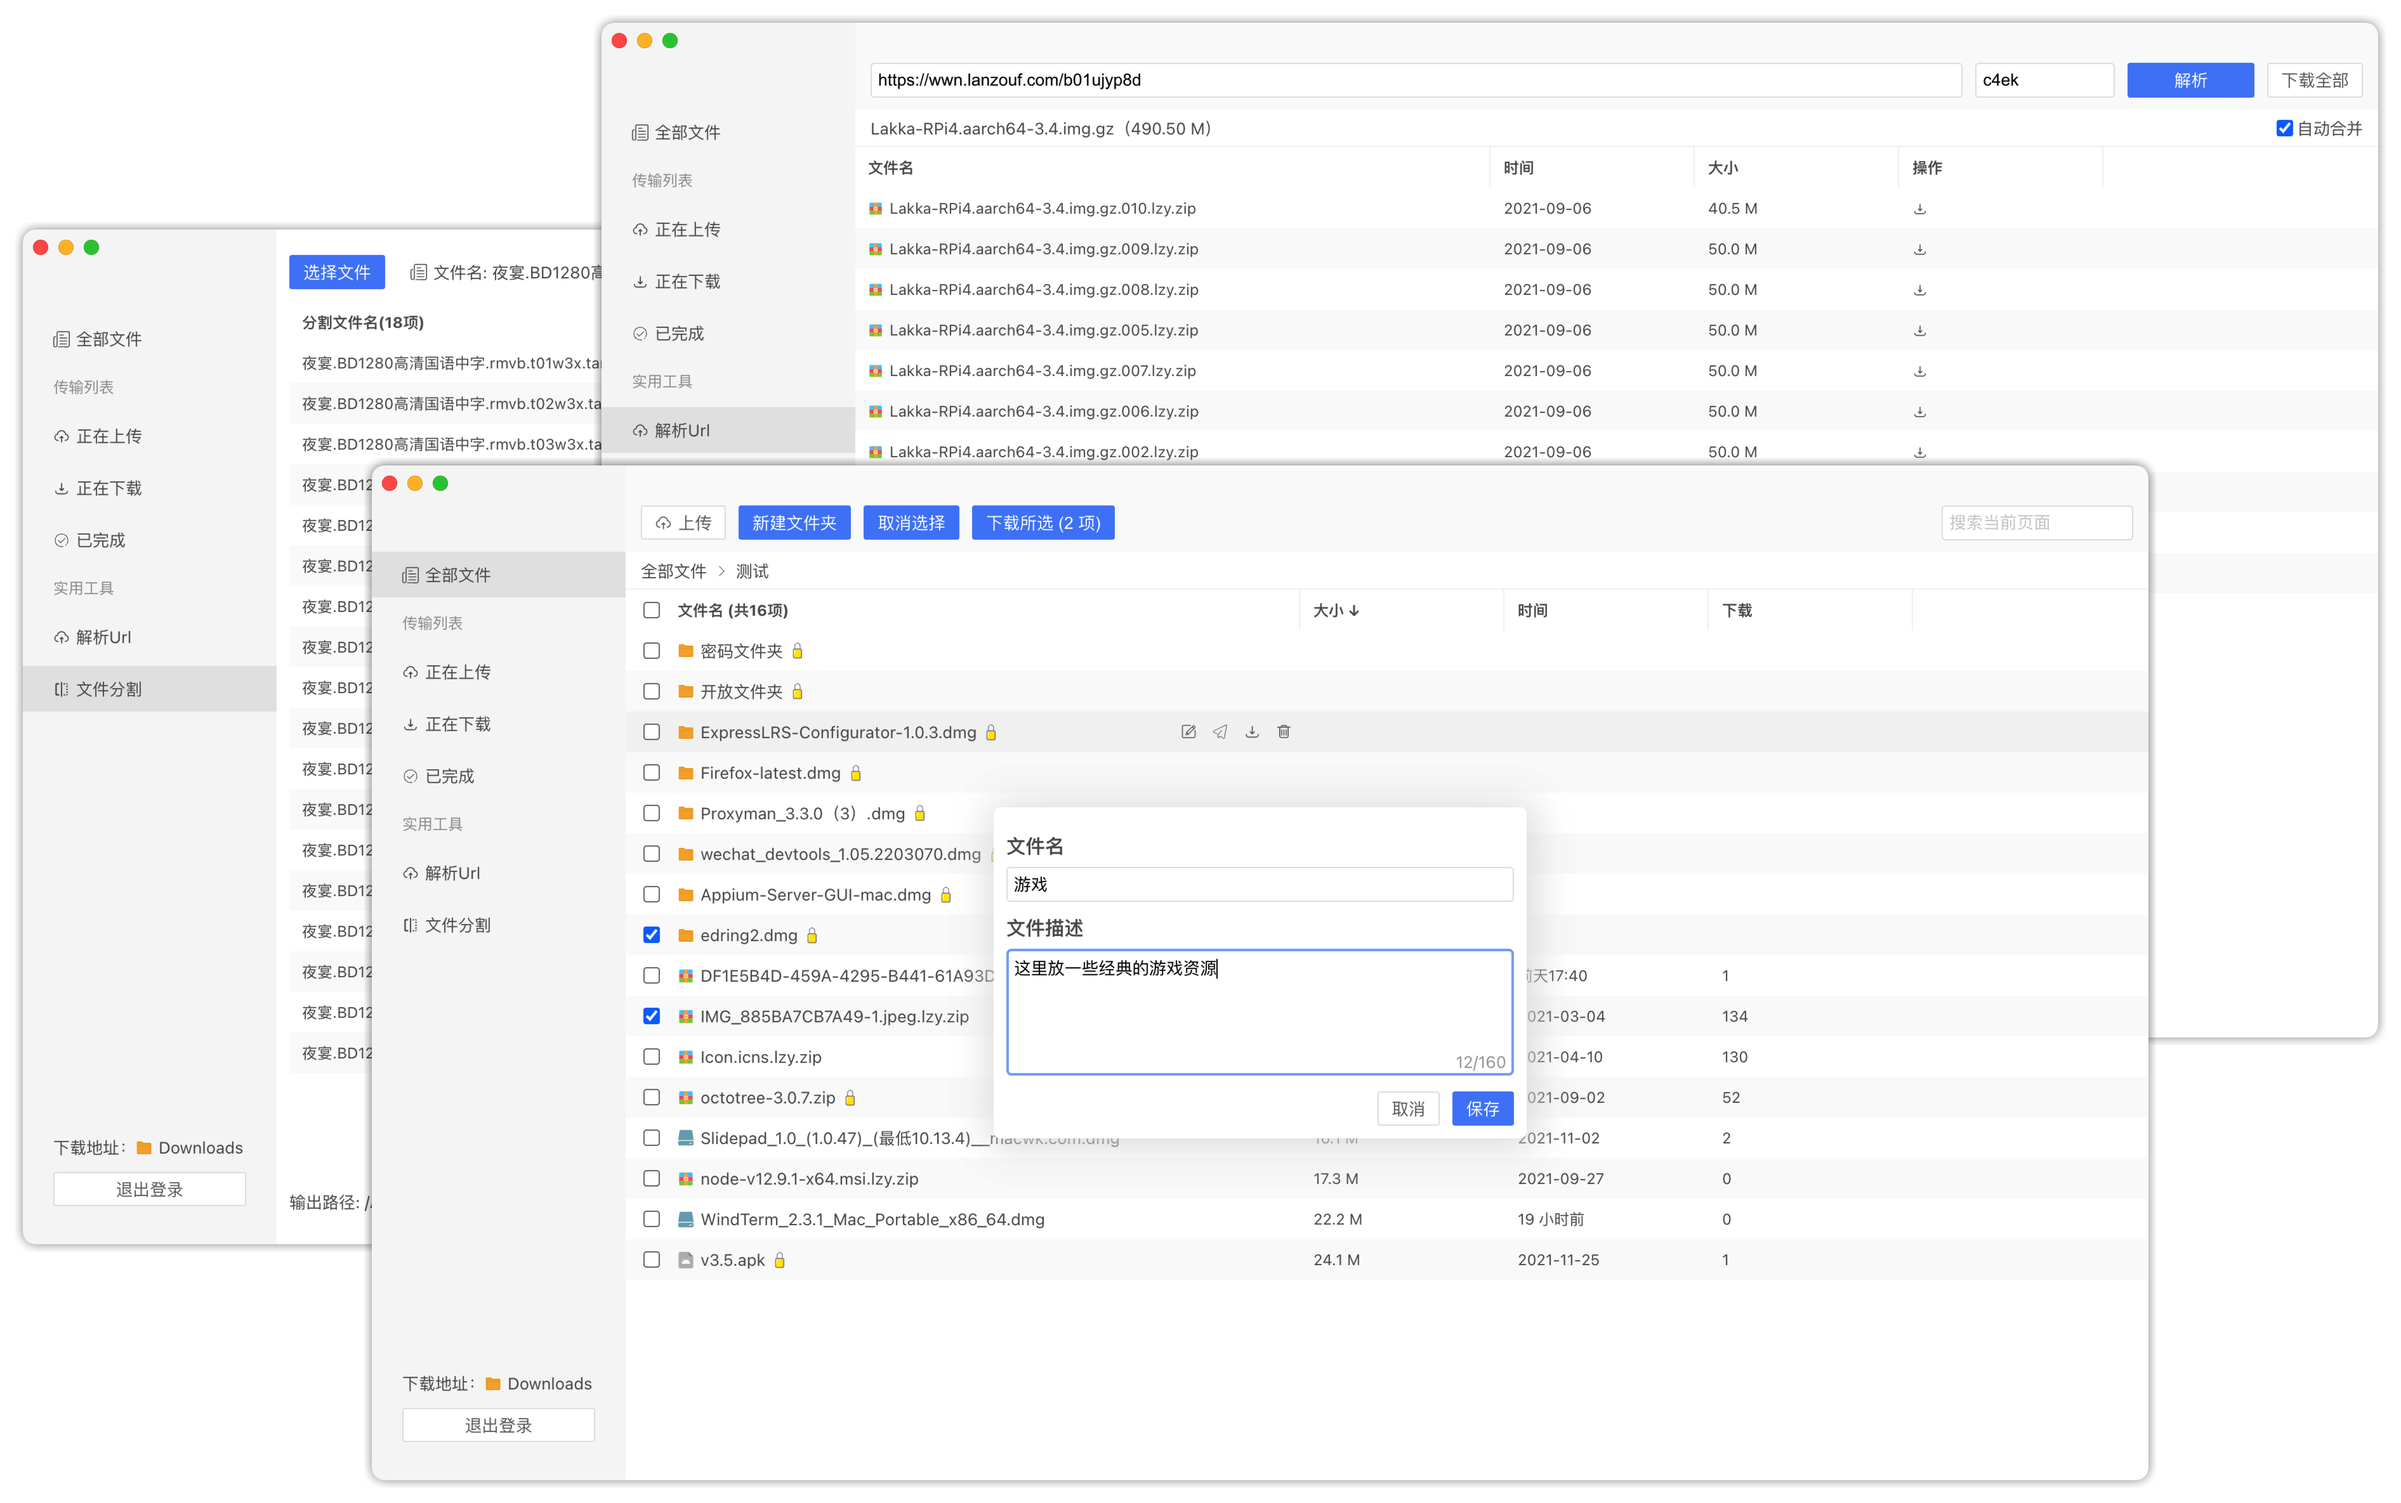
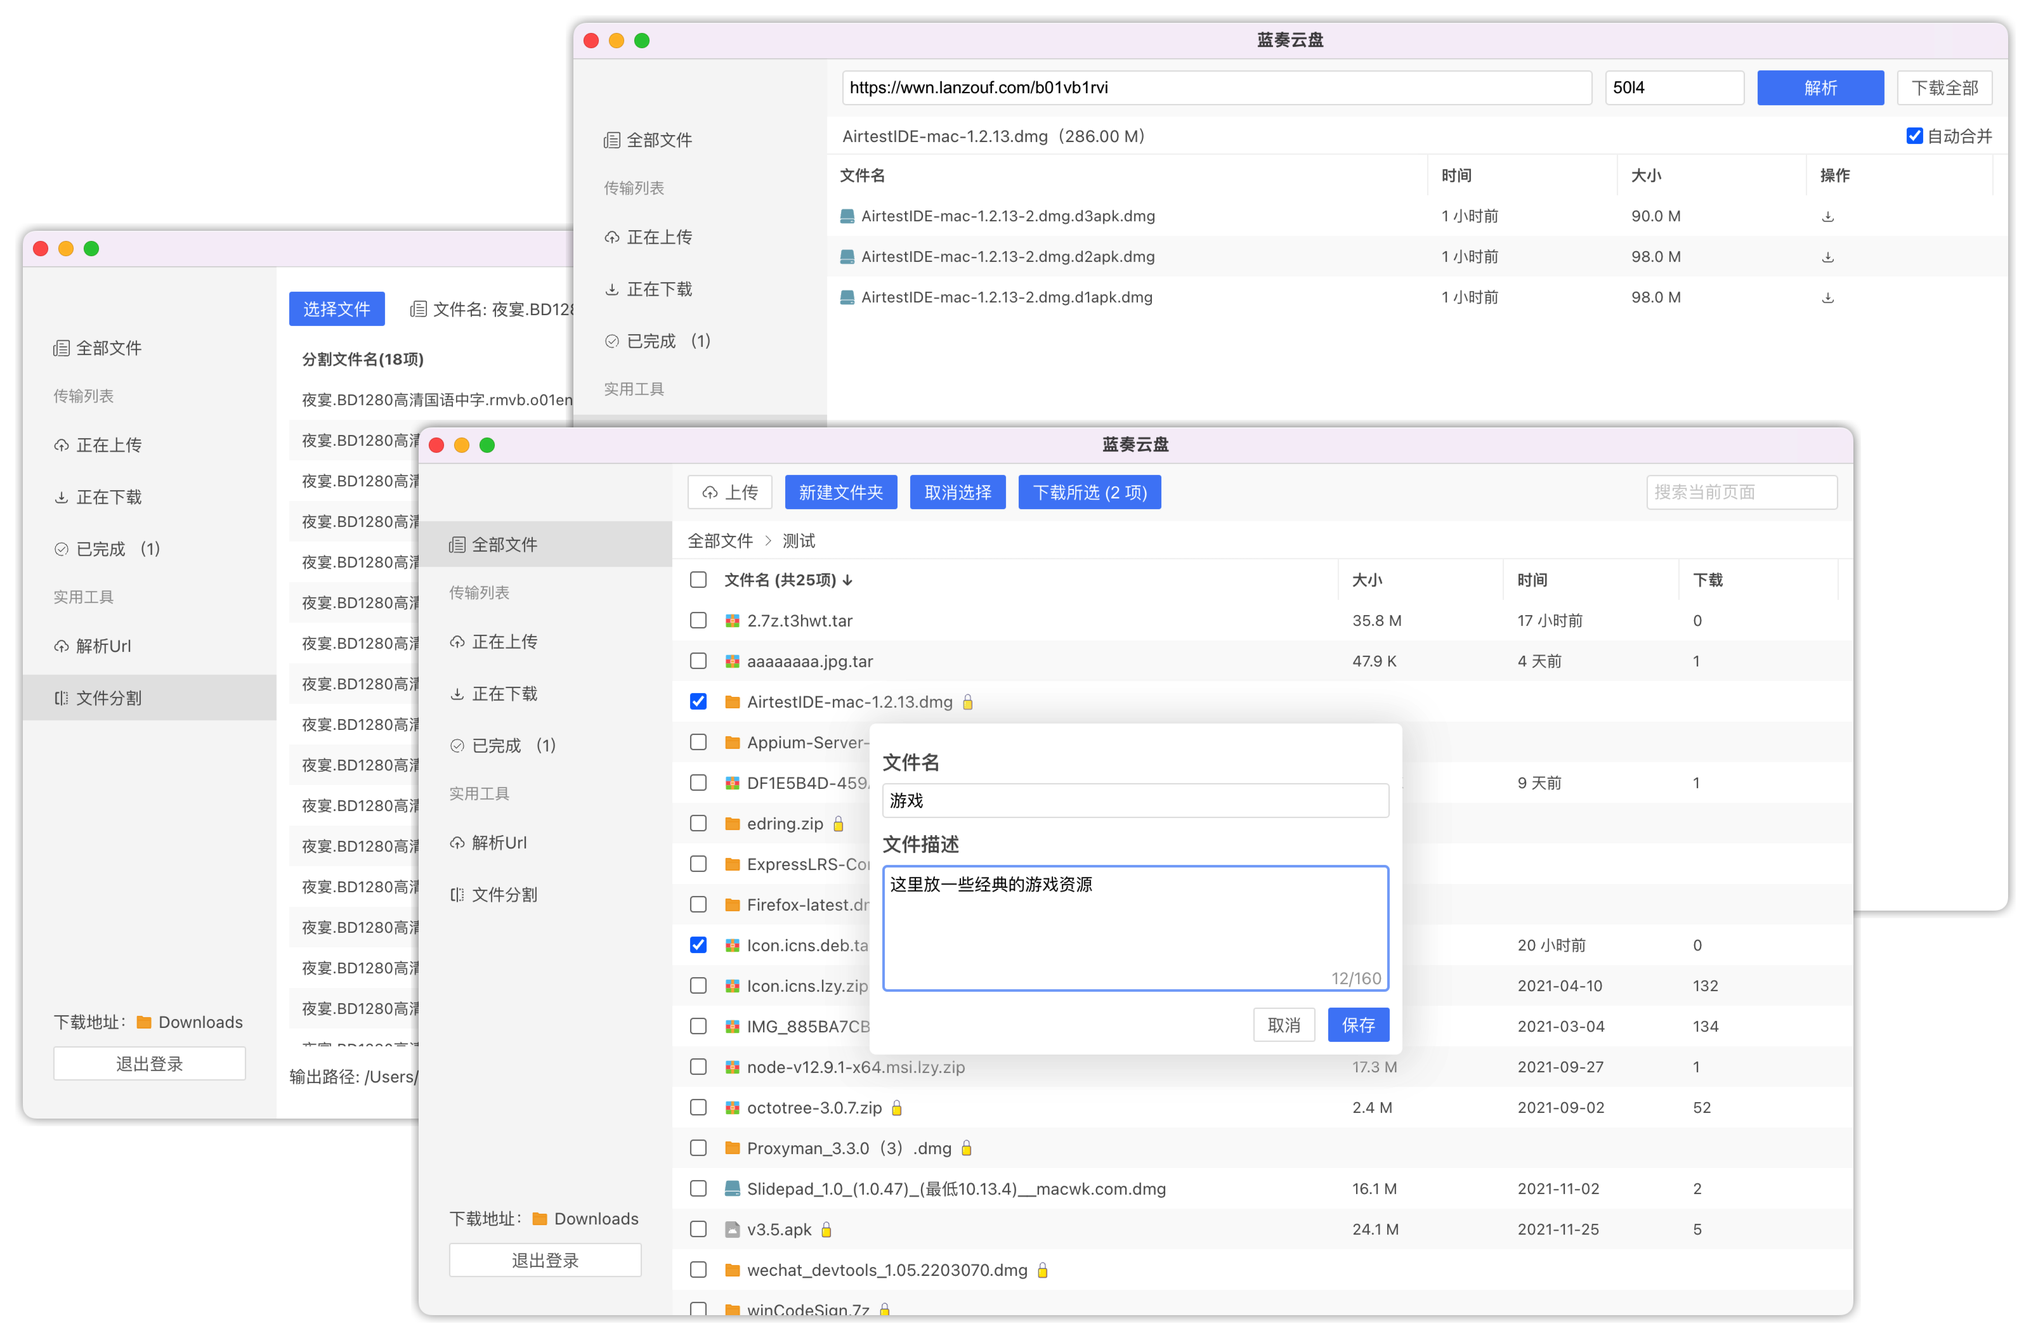
界面调整，修复文件上传问题
1. 不使用高危后缀（防检测）
2. 放宽后缀的范围
3. 精简菜单栏
4. 修复：下载空文件无限循环的问题

diff --git a/src/common/util.ts b/src/common/util.ts
@@ -43,12 +43,11 @@ export function byteToSize(byte: number) {
   if (byte < sizeToByte('1t')) return `${formatSize(byte, sizeToByte('1g'))} G`
 }
 
-const suffix = ['zip', 'tar', 'rar']
-const suffixTypeMap = {
-  zip: 'application/zip',
-  tar: 'application/x-tar',
-  rar: 'application/x-rar',
-}
+const suffix = config.supportList.filter(value => {
+  const length = value.length
+  return length >= 2 && !['zip', 'tar', 'rar', '7z', 'txt', 'conf', 'bat'].includes(value)
+})
+// const suffix = ['zip', 'tar', 'rar']
 function getRandomItem(list: string[]) {
   return list[Math.round(Math.random() * (list.length - 1))]
 }
@@ -58,6 +57,12 @@ export function getSuffix() {
   return `${getRandomItem(shortList)}.${getRandomItem(suffix)}`
 }
 
+// todo: delete
+const suffixTypeMap = {
+  zip: 'application/zip',
+  tar: 'application/x-tar',
+  rar: 'application/x-rar',
+}
 export function getFileType(filename: string, defaultType = 'application/octet-stream') {
   const ext = filename.replace(/.+\.(\w+)$/, '$1')
   return suffixTypeMap[ext] || defaultType
@@ -68,13 +73,13 @@ export function getFileType(filename: string, defaultType = 'application/octet-s
  * 未命名.png.epub.zip
  */
 export function isSpecificFile(name: string) {
-  // 兼容老版本
+  // 兼容 v1 版本
   if (name.endsWith('.lzy.zip')) {
     name = name.replace(/\.lzy\.zip$/, '')
     return !/\d$/.test(name)
   }
 
-  if (suffix.some(value => name.endsWith(`.${value}`))) {
+  if (config.supportList.some(value => name.endsWith(`.${value}`))) {
     name = name.replace(/\.\w+?$/, '')
     const ends = config.supportList.find(value => name.endsWith(value))
     if (ends) {
@@ -102,7 +107,7 @@ export function restoreFileName(name: string) {
  * suffix 无需带 .
  */
 export function createSpecificIndexName(fileName: string, suffix: string, index: number, total: number) {
-  const sign = suffix[suffix.length - 1 - 2]
+  const sign = suffix.split('.').pop()?.[0]
   const padLength = `${total}`.length
   return `${fileName}.${sign}${`${index}`.padStart(padLength, '0')}${suffix}`
 }

diff --git a/src/renderer/App.tsx b/src/renderer/App.tsx
@@ -1,7 +1,6 @@
 import React, {useState} from 'react'
 import {observer} from 'mobx-react'
 import {basename} from 'path'
-import electron from 'electron'
 
 import './component/Icon/lib/iconfont.js'
 import {Menu, MenuItem, MenuProvider} from './component/Menu'
@@ -14,10 +13,11 @@ import Parse from './page/Parse'
 import SplitMerge from './page/SplitMerge'
 import {download, upload} from './store'
 import {Button} from './component/Button'
-import IpcEvent from '../common/IpcEvent'
 import {Icon} from './component/Icon'
 import store from '../common/store'
 import electronApi from './electronApi'
+import {config} from './store/Config'
+
 import './App.css'
 
 const App = observer(() => {
@@ -86,6 +86,7 @@ const App = observer(() => {
             </div>
             <Button
               style={{width: '100%'}}
+              title={`最近登录: ${config.lastLogin}`}
               onClick={() => {
                 electronApi.logout()
               }}

diff --git a/src/main/application.ts b/src/main/application.ts
@@ -108,18 +108,12 @@ export abstract class Application {
   createWindow() {
     this.mainWindow = new BrowserWindow({
       width: 1400,
-      // height: 800,
       height: 900,
-      // minWidth: 900,
-      // minHeight: 600,
-      // autoHideMenuBar: true,
-      titleBarStyle: 'hidden',
       webPreferences: {
         // preload: path.resolve(__dirname, 'main/preload.js'),
         webSecurity: false, // 不使用网页安全性，跨域
         nodeIntegration: true, // 开启后可在渲染线程 require()
         contextIsolation: false,
-        // nativeWindowOpen: true,
       },
     })
   }

diff --git a/src/main/ipc.ts b/src/main/ipc.ts
@@ -23,8 +23,8 @@ export class Ipc implements Extension {
 
   install(instance: Application) {
     this.app = instance
-    ipcMain.handle(IpcEvent.dialog_showOpenDialog, this.showOpenDialog)
-    ipcMain.handle(IpcEvent.shell_showItemInFolder, this.showItemInFolder)
+    ipcMain.handle(IpcEvent['dialog:showOpenDialog'], this.showOpenDialog)
+    ipcMain.handle(IpcEvent['shell:showItemInFolder'], this.showItemInFolder)
     ipcMain.on(IpcEvent.logout, this.logout.bind(this))
   }
 }

diff --git a/src/renderer/electronApi.ts b/src/renderer/electronApi.ts
@@ -9,10 +9,10 @@ const electronApi: ElectronApi = {
     ipcRenderer.send(IpcEvent.logout)
   },
   showItemInFolder(fullPath: string) {
-    return ipcRenderer.invoke(IpcEvent.shell_showItemInFolder, fullPath)
+    return ipcRenderer.invoke(IpcEvent['shell:showItemInFolder'], fullPath)
   },
   showOpenDialog(options) {
-    return ipcRenderer.invoke(IpcEvent.dialog_showOpenDialog, options)
+    return ipcRenderer.invoke(IpcEvent['dialog:showOpenDialog'], options)
   },
 }
 

diff --git a/src/main/index.ts b/src/main/index.ts
@@ -6,6 +6,7 @@ import store from '../common/store'
 import config from '../project.config'
 import {Application} from './application'
 import {Ipc} from './ipc'
+import {AppMenu} from './menu'
 
 // todo: 根据 platform 显示不同外观
 console.log('process.platform', process.platform) // darwin, win32
@@ -69,3 +70,6 @@ class App extends Application {
 
 const electronApp = new App()
 electronApp.install(new Ipc())
+if (!isDev) {
+  electronApp.install(new AppMenu())
+}

diff --git a/src/renderer/store/Download.ts b/src/renderer/store/Download.ts
@@ -325,6 +325,10 @@ export class Download extends EventEmitter implements Task<DownloadTask> {
   async initTask(task: DownloadTask) {
     if (task.tasks?.length) return
     const {name, type, list} = await lsShare(task)
+    if (!list.length) {
+      throw new Error('列表为空！')
+    }
+
     task.urlType = type
     if (!task.name) {
       task.name = name

diff --git a/src/renderer/component/Header.css b/src/renderer/component/Header.css
@@ -1,13 +1,9 @@
 .header {
-  /*background-color: #f6f6f6;*/
   background-color: rgba(246,246,246, 0.5);
   height: 46px;
   line-height: 46px;
-  padding-top: 22px;
   padding-left: 12px;
   padding-right: 12px;
-  -webkit-app-region: drag;
-  /*border-bottom: 1px solid rgb(232, 232,232);*/
 
   display: flex;
   justify-content: space-between;

diff --git a/src/common/IpcEvent.ts b/src/common/IpcEvent.ts
@@ -1,7 +1,7 @@
 enum IpcEvent {
   // handle
-  dialog_showOpenDialog = 'dialog_showOpenDialog',
-  shell_showItemInFolder = 'shell.showItemInFolder',
+  'dialog:showOpenDialog' = 'dialog:showOpenDialog',
+  'shell:showItemInFolder' = 'shell:showItemInFolder',
 
   // on
   logout = 'logout',

diff --git a/src/main/menu.ts b/src/main/menu.ts
@@ -1,0 +1,10 @@
+import {Extension} from './extension'
+import {Menu} from 'electron'
+
+export class AppMenu implements Extension {
+  install(): void {
+    if (process.platform !== 'darwin') {
+      Menu.setApplicationMenu(null)
+    }
+  }
+}

diff --git a/src/renderer/App.css b/src/renderer/App.css
@@ -48,7 +48,7 @@ h1, h2, h3, h4, h5 {
 .aside {
   background-color: #F6F6F6;
   width: 200px;
-  padding-top: 68px;
+  padding-top: 46px;
   display: flex;
   flex-direction: column;
   justify-content: space-between;
